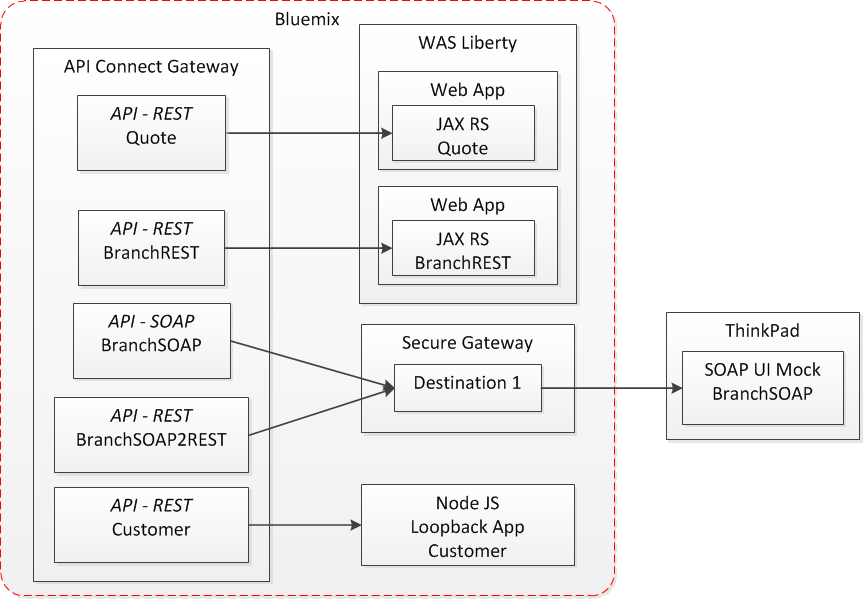
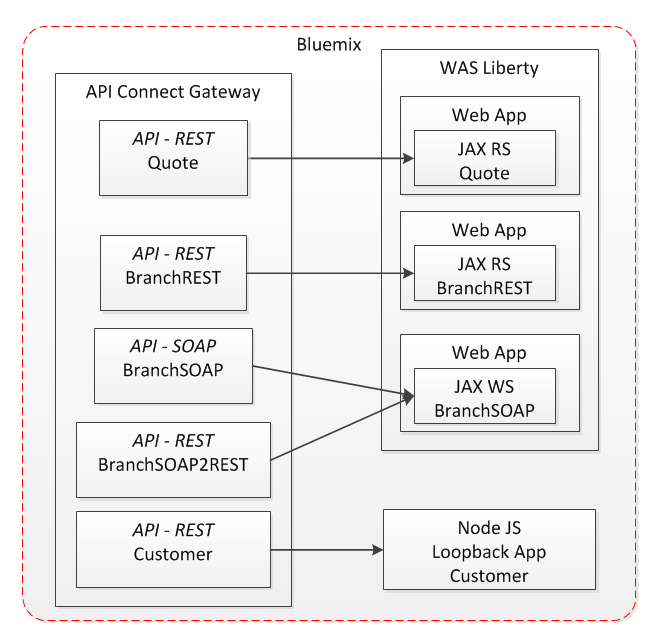
Add more screen captures on Step 1 to 3

diff --git a/Lab API - Manage your APIs with API Connect/README.md b/Lab API - Manage your APIs with API Connect/README.md
@@ -119,7 +119,7 @@ This chapter just illustrates one way to install the product in a very simple ca
 * Loopback application
 <br>Install controller (WAS liberty) + IHS + member (nodeJS) and configure IHS Plugin
 
-# Steps for the lab
+# Overall design of the lab
 
 The goal of this lab is to define the following APIs:
 ![ProductsAndAPIsToBuild](./images/ProductsAPIsToBuild.png)
@@ -127,20 +127,22 @@ This provides a mix of REST and SOAP APIs, with or without mapping, using or not
 
 The corresponding back end runtimes are as follow:
 ![RuntimesAndBackEnd](./images/RuntimesAndBackEnd.png)
-This provides a mix of JAX RS, NodeJS (with Loopback Application) and Secure Gateway back end samples, demonstrating pure cloud APIs and hybrid APIs.
+This provides a mix of JAX RS, JAX WS, and NodeJS (with Loopback Application) for pure cloud APIs. The use of Secure Gateway in relation with a local deployment would demonstrate hybrid APIs.
+
+# Steps for the lab
 
 1. [Provision API Connect in Bluemix](#step-1---provision-api-connect-in-bluemix)
-2. [Expose an existing REST API](#step-2---expose-an-existing-rest-api)
-3. [Publish your API to the Sandbox catalog](#step-3---publish-your-api-to-the-sandbox-catalog)
-4. [Consumer Experience](#step-4---consumer-experience)
-5. [Invoke the API](#step-5---invoke-the-api)
-6. [Analytics](#step-6---analytics)
-7. [Create a SOAP API ](#step-7---create-a-soap-api)
-8. [Create a SOAP to REST API ](#step-8---create-a-soap-to-rest-api)
-9. [Create a Cloudant service](#step-9---create-a-cloudant-service)
-10. [Create a LoopBack application](#step-10---create-a-loopback-application)
-11. [Manage your API in API Designer](#step-11---manage-your-api-in-api-designer)
-12. [Test your API](#step-12---test-your-api)
+1. [Expose an existing REST API](#step-2---expose-an-existing-rest-api)
+1. [Publish your API to the Sandbox catalog](#step-3---publish-your-api-to-the-sandbox-catalog)
+1. [Consumer Experience](#step-4---consumer-experience)
+1. [Invoke the API](#step-5---invoke-the-api)
+1. [Analytics](#step-6---analytics)
+1. [Create a SOAP API ](#step-7---create-a-soap-api)
+1. [Create a SOAP to REST API ](#step-8---create-a-soap-to-rest-api)
+1. [Create a Cloudant service](#step-9---create-a-cloudant-service)
+1. [Create a LoopBack application](#step-10---create-a-loopback-application)
+1. [Manage your API in API Designer](#step-11---manage-your-api-in-api-designer)
+1. [Test your API](#step-12---test-your-api)
 
 # Step 1 - Provision API Connect in Bluemix
 Login to the Bluemix [Catalog] [bmx_catalog_uk_url], in the UK region, provision (create) an instance of the service **API Connect**.
@@ -150,16 +152,17 @@ Login to the Bluemix [Catalog] [bmx_catalog_uk_url], in the UK region, provision
 When the API connect instance is created in your space for the organization, you should get the following screen. Notice that you can create only one instance of API connect per bluemix space.
 
 ![APIC Instance Created](./images/bluemix-apiccreated.png)
-The bold red box belongs to Bluemix, the Hamburger (small red box) give menus specific to Bluemix.
 
-The bold blue box belongs to API Connect, the chevrons (small blue box) gives menus specific to API connect.
+* The bold red box belongs to Bluemix, the Hamburger (small red box) give menus specific to Bluemix.
+* The bold blue box belongs to API Connect, the chevrons (small blue box) gives menus specific to API connect.
 
 We also instantiate the Portal associated to the Sandbox catalog. Click on the API Connect instance from your catalog, Go to *Dashboard* (within API Connect), click on the Sandbox catalog, then on the menu bar, click on *Settings*, then on the navigation panel, click on Portal, and select *IBM Developer Portal*, click the Save icon. This will instanciate an instance of a site within Drupal, when it is completed you will receive an email.
+
 ![APIC Portal Configuration](./images/bluemix-configportal.png)
 
 # Step 2 - Expose an existing REST API
 For this lab, we will work directly in the Manager in Bluemix instead of using the toolkit.
->**Note**: Using the toolkit (locally) or using manager  directly (remote server) is a pretty important decision. Using the toolkit allows to use a Source Control Management system and perform micro versioning as well as backup of the various yaml (and wsdls). It also provides a local experience with a very low response time. Using the Manager simplifies sharing the API Drafts. In reality, there are ways to benefit of both approaches.
+>**Note**: Using the toolkit (locally) or using manager  directly (remote server) is a pretty important decision. Using the toolkit allows to use a Source Control Management System and perform micro versioning as well as backup of the various yaml (and wsdls). It also provides a local experience with a very low response time. Using the Manager simplifies sharing the API Drafts. In reality, there are ways to benefit of both approaches.
 
 In this first step, we assume that a developer of an API is providing you the Swagger associated with that API. The developer is using WAS Liberty as the runtime and he also uses JAX-RS annotations along apidiscovery feature. This allows him to get a Swagger easily consumed by API Connect. Download the Swagger [here](./materials/step2/QuoteManagementAPI_AW_S.yaml) on your file system, for example under C:\\IBM\\Afterwork
 
@@ -170,16 +173,27 @@ In this first step, we assume that a developer of an API is providing you the Sw
 1. We need to complete/review  a few informations, that were not specified in the generated Swagger. The amount of information that need to be completed will depend greatly on the use of the annotations or the Swagger generator used.
 
  * Select https for the scheme, in the *Schemes* section.
+ ![QuoteSchemes](./images/QuoteSchemes.png)
  * Create the security definition, click on + sign close to the *Security Definitions* section, and select API Key. Rename it to **cliend-id**.
+  ![QuoteSecurityDef](./images/QuoteSecurityDef.png)
  * Specify the security of the API, click on the + sign close to the *Security* section, and check the client-id API Key
- * Create a property to define the **target-url** of the back end API. This allows us to create a variable that may take different values based on the catalog. Click on the + sign close to the *Properties* section. Set the Property name to target-url, and enter **http://SampleJAXRS20-aw.eu-gb.mybluemix.net** in the value, close to *Default* value.
+ ![QuoteSecurity](./images/QuoteSecurity.png)
+ * Create a property to define the **target-url** of the back end API. This allows us to create a variable that may take different values based on the catalog instance. Click on the + sign close to the *Properties* section. Set the Property name to target-url, and enter **http://SampleJAXRS20-aw.eu-gb.mybluemix.net** in the value, close to *Default* value.
+  ![QuoteProperty](./images/QuoteProperty.png)
  * Click on the Assemble menu (or Edit ssembly button), click on the Invocation policy, and set the URL property to **$(target-url)$(request.path)$(request.search)**
+ ![QuoteInvoke](./images/QuoteInvoke.png)
  * Save the changes, by clicking on the *Save* icon at the top.
 
-1. We are almost ready to test the API. We need to add the API to the Product. You do this within the API by clicking on the ... icon on the top, and select *Add to existing products*, then select the *QuoteMgmt* and click on the Add button.
-1. To test the API from an API provider perspective, click on *Assemble*, in the left hand side panel, switch from **Micro Gateway policies** to **DataPower Gateway policies**. Save the change. click on the triangle icon (on the top left), check the catalog to run the API, select the QuoteManagement product, then select the operation to test, for example, get /extQuote, enter the parameters (amount 1000, rate 1.1, duration 36, delay 10, msg length 11) and click invoke. (If you are using the toolkit you also can do this, but in this case you need to start the micro gateway and the loopback application runtime).
+1. We are almost ready to test the API. We need to add the API to the Product. You do this within the API by clicking on the ... icon on the top right, and select *Add to existing products*, then select the *QuoteMgmt* and click on the Add button.
+1. To test the API from an API provider perspective, click on *Assemble*, in the left hand side panel, switch from **Micro Gateway policies** to **DataPower Gateway policies**.
+ ![QuoteDPPolicies](./images/QuoteDPPolicies.png)
+Save the change. click on the triangle icon (on the top left), check the catalog to run the API, select the QuoteManagement product, then select the operation to test, for example, get /extQuote, enter the parameters (amount 1000, rate 1.1, duration 36, delay 10, msg length 11) and click invoke. (If you are using the toolkit you also can do this, but in this case you need to start the micro gateway and the loopback application runtime).
+
+ ![QuoteTest](./images/QuoteTest.png)
 
 You can also test the API using the explore facility. You get a view similar to the API consumer in the portal, but in this case you do not need to create an Apps and subscribe to the API. Click on the *Explore* link on the top right, you see the documentation and have the possibility to test the various operations.
+ ![QuoteExploreButton](./images/QuoteExploreButton.png)
+ ![QuoteExplore](./images/QuoteExplore.png)
 
 >**Note**: Documenting an API is very important. API Connect supports the MarkDown format, which is popular in the GitHub sphere.
 Below some samples of usefull MarkDown instructions.
@@ -203,8 +217,11 @@ You can perform the same set of operations for the BranchREST API and using a ne
 
 # Step 3 - Publish your API to the Sandbox catalog
 1. Within the Draft area, select the **QuoteMgmt** product, and click on **Publish icon** (cloud shape) in the top right corner, select Sandbox. This does effectively stage the product in the Sandbox catalog. The product is not yet published to the Portal.
+ ![QuoteStage](./images/QuoteStage.png)
 1. Go to the Bluemix [Dashboard] [bmx_dashboard_url]. Click on the Sandbox catalog, you should see the product just staged. Click on the ... link and select Publish.
+![QuotePublish](./images/QuotePublish.png)
 1. Check the visibility and click on Publish button.
+![QuoteVisibility](./images/QuoteVisibility.png)
 1. Your QuoteMgmt is now visible in Developer Portal
 
 # Step 4 - Consumer Experience
